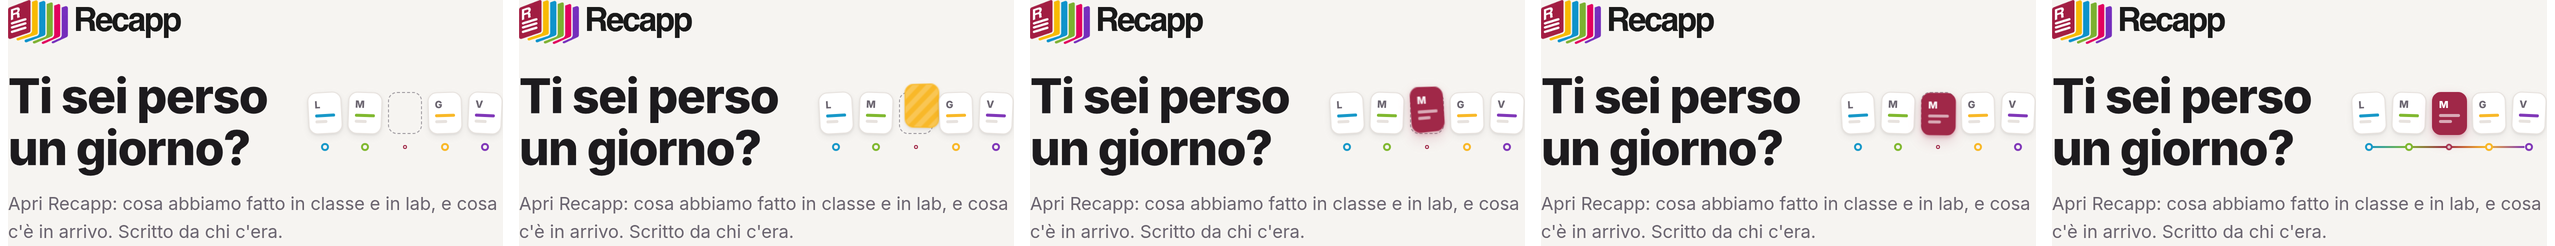
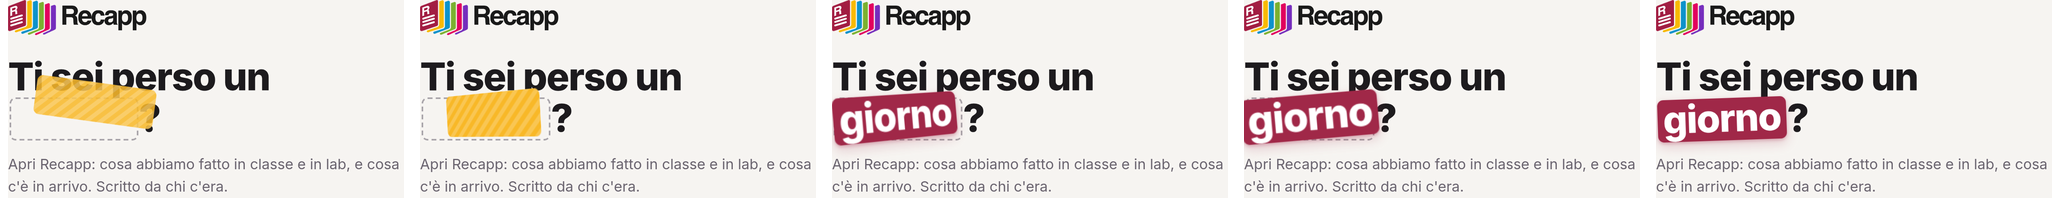
feat: il giorno perso arriva nel titolo al posto della settimana (#91)
La settimana illustrata accanto al titolo è stata tolta. Ora nel titolo
la parola «giorno» parte da uno spazio vuoto: un foglietto arriva
inclinato, si gira e si incastra. Il titolo mantiene un nome accessibile
pulito; test, nota di rilascio e screenshot sono aggiornati.

diff --git a/web/tests/landing-art.spec.ts b/web/tests/landing-art.spec.ts
@@ -10,55 +10,59 @@ async function open(page: Page, { width = 1280, dark = false, language = 'it', r
   await page.route('**/api/**', r => r.fulfill({ json: r.request().url().endsWith('/me')
     ? { kind: 'anonymous' } : { version: 'dev', status: 'idle' } }))
   await page.goto('/')
-  const week = page.getByTestId('missed-week')
-  await expect(week).toBeVisible()
-  return week
+  const day = page.getByTestId('title-day')
+  await expect(day).toBeVisible()
+  return day
 }
 
-const running = (week: Locator) => week.evaluate(el => el.getAnimations({ subtree: true }).length)
-const finished = (week: Locator) => week.evaluate(el => Promise.all(el.getAnimations({ subtree: true }).map(a => a.finished)))
+// Only the entrance counts: the language switch fades `.language-text` on its own.
+const running = (day: Locator) => day.evaluate(el =>
+  el.getAnimations({ subtree: true }).filter(a => (a as CSSAnimation).animationName?.startsWith('title-day-')).length)
+const finished = (day: Locator) => day.evaluate(el => Promise.all(el.getAnimations({ subtree: true }).map(a => a.finished)))
 
 const overlaps = (a: DOMRect | null, b: DOMRect | null) =>
   !!a && !!b && a.x < b.x + b.width && b.x < a.x + a.width && a.y < b.y + b.height && b.y < a.y + a.height
 
-test('the missing day returns within about a second and the controls work meanwhile', async ({ page }) => {
-  const week = await open(page)
-  await expect(week).toHaveAttribute('aria-hidden', 'true')
-  await expect(week.locator('.missed-week-tile:not(.missed-week-tile--back)')).toHaveCount(5)
-  const timings = await week.evaluate(el => el.getAnimations({ subtree: true }).map(a => {
+test('the missed day lands in the title within about a second and the controls work meanwhile', async ({ page }) => {
+  const day = await open(page)
+  // The word stays part of the heading for screen readers; only the motion is decorative.
+  await expect(page.getByRole('heading', { level: 1, name: 'Ti sei perso un giorno?' })).toBeVisible()
+  await expect(day.locator('.title-day-slip')).toHaveText('giorno')
+  const timings = await day.evaluate(el => el.getAnimations({ subtree: true }).filter(a => (a as CSSAnimation).animationName?.startsWith('title-day-')).map(a => {
     const t = a.effect!.getComputedTiming()
     return Number(t.delay) + Number(t.activeDuration)
   }))
-  expect(timings.length).toBe(4)
+  expect(timings.length).toBe(3)
   expect(Math.max(...timings)).toBeLessThanOrEqual(1300)
   // The class code field takes input while the entrance is still running.
   await page.getByLabel('Codice classe').fill('4BI')
-  expect(await running(week)).toBeGreaterThan(0)
-  await finished(week)
+  expect(await running(day)).toBeGreaterThan(0)
+  await finished(day)
+  expect(await day.evaluate(el => getComputedStyle(el, '::before').opacity)).toBe('0')
   await expect(page.getByRole('button', { name: 'Prova la demo' })).toBeEnabled()
 })
 
 test('typing, language and theme changes never restart the entrance', async ({ page }) => {
-  const week = await open(page)
-  await finished(week)
-  await week.evaluate(el => { (el as HTMLElement & { mark?: boolean }).mark = true })
+  const day = await open(page)
+  await finished(day)
+  await day.evaluate(el => { (el as HTMLElement & { mark?: boolean }).mark = true })
   await page.getByLabel('Codice classe').pressSequentially('4BI-K7Q2')
-  expect(await running(week)).toBe(0)
+  expect(await running(day)).toBe(0)
   await page.getByRole('button', { name: /^(Tema|Theme):/ }).click()
   await expect(page.locator('html')).toHaveClass(/dark/)
-  expect(await running(week)).toBe(0)
+  expect(await running(day)).toBe(0)
   await page.getByRole('button', { name: 'Passa a inglese' }).click()
   await expect(page.getByRole('heading', { level: 1 })).toHaveText('Missed a day?')
-  await expect(week.locator('.missed-week-tile--front b')).toHaveText('W')
-  expect(await running(week)).toBe(0)
-  expect(await week.evaluate(el => (el as HTMLElement & { mark?: boolean }).mark)).toBe(true)
+  await expect(day.locator('.title-day-slip')).toHaveText('day')
+  expect(await running(day)).toBe(0)
+  expect(await day.evaluate(el => (el as HTMLElement & { mark?: boolean }).mark)).toBe(true)
 })
 
-test('reduced motion shows the final composition and still stickers', async ({ page }) => {
-  const week = await open(page, { reduced: true })
-  expect(await running(week)).toBe(0)
-  const found = week.locator('.missed-week-found')
-  expect(await found.evaluate(el => [getComputedStyle(el).opacity, getComputedStyle(el).transform])).toEqual(['1', 'none'])
+test('reduced motion shows the final title and still stickers', async ({ page }) => {
+  const day = await open(page, { reduced: true })
+  expect(await running(day)).toBe(0)
+  expect(await day.evaluate(el => getComputedStyle(el, '::before').opacity)).toBe('0')
+  expect(await day.locator('.title-day-fly').evaluate(el => getComputedStyle(el).opacity)).toBe('1')
   const sticker = page.locator('.sticker').first()
   const before = await sticker.boundingBox()
   await sticker.hover()
@@ -105,21 +109,20 @@ test('a tap on a sticker reacts without capturing the page', async ({ browser })
 
 for (const width of [320, 390, 1024, 1280]) for (const language of ['it', 'en']) for (const dark of [false, true]) for (const zoom of ['100%', '200%']) {
   test(`layout at ${width}px, ${language}, ${dark ? 'dark' : 'light'}, text ${zoom}`, async ({ page }) => {
-    const week = await open(page, { width, language, dark })
+    const day = await open(page, { width, language, dark })
     await page.evaluate(zoom => { document.documentElement.style.fontSize = zoom }, zoom)
-    await finished(week)
-    // At 320px with 200% text the header and the logo already overflow on main; this only checks the new art.
-    const box = await week.evaluate(el => el.getBoundingClientRect().toJSON() as DOMRect)
-    const main = await page.locator('main').evaluate(el => el.getBoundingClientRect().toJSON() as DOMRect)
-    expect(box.x).toBeGreaterThanOrEqual(main.x)
-    expect(box.x + box.width).toBeLessThanOrEqual(Math.min(main.x + main.width, width))
-    for (const other of [page.getByRole('heading', { level: 1 }), page.locator('main section p').first(), page.getByLabel(/Codice classe|Class code/), page.locator('main ul')]) {
+    await finished(day)
+    // At 320px with 200% text the header and the logo already overflow on main; this only checks the title.
+    const slip = await day.locator('.title-day-slip').evaluate(el => el.getBoundingClientRect().toJSON() as DOMRect)
+    const title = await page.getByRole('heading', { level: 1 }).evaluate(el => el.getBoundingClientRect().toJSON() as DOMRect)
+    expect(slip.x).toBeGreaterThanOrEqual(title.x - 2)
+    expect(slip.x + slip.width).toBeLessThanOrEqual(Math.min(title.x + title.width, width) + 2)
+    // The question mark stays on the slip's line.
+    const mark = await day.locator('xpath=following-sibling::span[1]').evaluate(el => el.getBoundingClientRect().toJSON() as DOMRect)
+    expect(Math.abs(mark.y + mark.height / 2 - (slip.y + slip.height / 2))).toBeLessThan(slip.height / 2)
+    for (const other of [page.locator('main section p').first(), page.getByLabel(/Codice classe|Class code/), page.locator('main ul')]) {
       const rect = await other.evaluate(el => el.getBoundingClientRect().toJSON() as DOMRect)
-      expect(overlaps(box, rect)).toBe(false)
+      expect(overlaps(slip, rect)).toBe(false)
     }
-    // Beside the title from 1024px, below the subtitle otherwise.
-    const title = await page.getByRole('heading', { level: 1 }).boundingBox()
-    if (width >= 1024 && zoom === '100%') expect(box.x).toBeGreaterThan(title!.x + title!.width - 1)
-    if (width < 1024) expect(box.y).toBeGreaterThan(title!.y + title!.height)
   })
 }

diff --git a/web/src/index.css b/web/src/index.css
@@ -1315,92 +1315,74 @@ html[data-language-transition='out'] textarea::placeholder {
   .report-sent-check circle, .report-sent-check path { animation: none; stroke-dashoffset: 0; }
 }
 
-/* Landing week (issue #91): a missing day flips back into its slot and a line joins the week.
-   Every rule below is the final composition; the entrance only fills backwards, so reduced
-   motion or a finished entrance leave the same picture. The flip (~260–740ms) overlaps the
-   logo's page flip, which Landing starts at 350ms. */
-.missed-week {
-  --week-delay: 200ms;
-  display: grid;
-  grid-template-columns: repeat(5, 34px);
-  grid-template-rows: 42px 10px;
-  column-gap: 6px;
-  row-gap: 8px;
-  width: max-content;
-  user-select: none;
-  pointer-events: none;
-}
-.missed-week-tile {
+/* Landing title (issue #91): the missed day's word sits on a paper slip. Its slot starts as an
+   empty dashed outline; the slip flies in tilted, flips and lands in the sentence. Every rule is
+   the final composition and the entrance only fills backwards, so reduced motion or a finished
+   entrance show the same title. The flip (~260–740ms) overlaps the logo's page flip, which
+   Landing starts at 350ms. */
+.title-day {
   position: relative;
-  grid-row: 1;
-  display: flex;
-  flex-direction: column;
-  gap: 3px;
-  padding: 6px;
-  border: 1px solid var(--color-line);
-  border-radius: 9px;
-  background: var(--color-surface);
-  box-shadow: 0 1px 2px rgb(29 27 30 / 0.08), 0 3px 8px rgb(29 27 30 / 0.06);
-  transform: rotate(var(--tilt, 0deg));
+  display: inline-block;
+  margin-inline: 0.04em 0.02em;
 }
-.missed-week-tile b { margin-bottom: 2px; font-size: 10px; font-weight: 800; line-height: 1; color: var(--color-muted); }
-.missed-week-tile i { display: block; height: 3px; border-radius: 2px; background: var(--accent, var(--color-line)); }
-.missed-week-tile i + i { width: 60%; background: var(--color-line); }
-.missed-week-slot {
+/* The empty slot. It stays visible until the slip has landed, then fades out. */
+.title-day::before {
+  content: '';
+  position: absolute;
+  inset: 0;
+  border: 2px dashed color-mix(in srgb, var(--color-muted) 55%, transparent);
+  border-radius: 0.16em;
+  opacity: 0;
+  animation: title-day-slot 1000ms backwards;
+}
+/* Flight and fade live on a wrapper: opacity on the flipping element would flatten its 3D faces. */
+.title-day-fly {
+  display: inline-block;
+  perspective: 600px;
+  transform: rotate(-2deg);
+  animation: title-day-fly 760ms 200ms cubic-bezier(0.22, 1, 0.36, 1) backwards;
+}
+.title-day-slip {
   position: relative;
-  grid-row: 1;
-  border: 1.5px dashed color-mix(in srgb, var(--color-muted) 60%, transparent);
-  border-radius: 9px;
+  display: inline-block;
+  padding: 0.03em 0.14em 0.07em;
+  border-radius: 0.16em;
+  line-height: 1;
+  color: #fff;
+  transform-style: preserve-3d;
+  animation: title-day-flip 480ms 260ms cubic-bezier(0.45, 0, 0.25, 1) backwards;
 }
-.missed-week-found { position: absolute; inset: -1.5px; perspective: 260px; animation: week-arrive 720ms var(--week-delay) cubic-bezier(0.22, 1, 0.36, 1) backwards; }
-.missed-week-flip { position: absolute; inset: 0; transform-style: preserve-3d; animation: week-flip 480ms calc(var(--week-delay) + 60ms) cubic-bezier(0.45, 0, 0.25, 1) backwards; }
-.missed-week-flip > .missed-week-tile { position: absolute; inset: 0; backface-visibility: hidden; -webkit-backface-visibility: hidden; }
-.missed-week-tile--front { border-color: var(--color-bordeaux); background: var(--color-bordeaux); box-shadow: 0 2px 4px rgb(160 40 72 / 0.25), 0 6px 14px rgb(160 40 72 / 0.18); }
-.missed-week-tile--front b { color: #fff; }
-.missed-week-tile--front i, .missed-week-tile--front i + i { background: rgb(255 255 255 / 0.6); }
-.missed-week-tile--back {
+/* Front (bordeaux, under the word) and back (yellow paper) are separate faces, so only one shows during the flip. */
+.title-day-slip::before,
+.title-day-slip::after {
+  content: '';
+  position: absolute;
+  inset: 0;
+  border-radius: inherit;
+  backface-visibility: hidden;
+  -webkit-backface-visibility: hidden;
+}
+.title-day-slip::before {
+  background: var(--color-bordeaux);
+  box-shadow: 0 0.04em 0.08em rgb(160 40 72 / 0.25), 0 0.12em 0.3em rgb(160 40 72 / 0.2);
+}
+.title-day-slip::after {
+  background: repeating-linear-gradient(135deg, var(--color-giallo) 0 0.12em, color-mix(in srgb, var(--color-giallo) 80%, #fff) 0.12em 0.24em);
   transform: rotateY(180deg);
-  border-color: var(--color-giallo);
-  background: repeating-linear-gradient(135deg, var(--color-giallo) 0 5px, color-mix(in srgb, var(--color-giallo) 80%, #fff) 5px 10px);
 }
-.missed-week-line {
-  grid-row: 2;
-  grid-column: 1 / -1;
-  align-self: center;
-  height: 2px;
-  margin-inline: 17px;
-  border-radius: 2px;
-  background: linear-gradient(90deg, var(--color-azzurro), var(--color-verde), var(--color-bordeaux), var(--color-giallo), var(--color-viola));
-  transform-origin: left;
-  animation: week-line 340ms calc(var(--week-delay) + 560ms) cubic-bezier(0.33, 1, 0.68, 1) backwards;
-}
-.missed-week-dot {
-  z-index: 1;
-  grid-row: 2;
-  place-self: center;
-  width: 8px;
-  height: 8px;
-  border: 2px solid var(--accent);
-  border-radius: 50%;
-  background: var(--color-paper);
-}
-.missed-week-dot--found { background: var(--color-bordeaux); animation: week-dot 280ms calc(var(--week-delay) + 760ms) ease-out backwards; }
+.title-day-slip > span { position: relative; display: inline-block; backface-visibility: hidden; -webkit-backface-visibility: hidden; }
 
-@keyframes week-arrive {
-  0% { opacity: 0; transform: translate(30px, -26px) rotate(18deg) scale(0.9); }
-  25% { opacity: 1; }
-  70% { transform: translate(0, -4px) rotate(-4deg) scale(1.05); }
-  86% { transform: translate(0, 1px) rotate(1deg) scale(0.98); }
+@keyframes title-day-slot {
+  0%, 80% { opacity: 1; }
 }
-@keyframes week-flip {
+@keyframes title-day-fly {
+  0% { opacity: 0; transform: translate(0.9em, -0.7em) rotate(16deg) scale(0.85); }
+  20% { opacity: 1; }
+  68% { transform: translate(0, -0.06em) rotate(-5deg) scale(1.06); }
+  84% { transform: translate(0, 0.02em) rotate(-1deg) scale(0.98); }
+}
+@keyframes title-day-flip {
   from { transform: rotateY(180deg); }
-}
-@keyframes week-line {
-  from { transform: scaleX(0); }
-}
-@keyframes week-dot {
-  from { transform: scale(0.5); background: var(--color-paper); }
-  60% { transform: scale(1.35); }
 }
 
 /* Landing feature icons as stickers: the corner peels on hover, they squeeze when pressed
@@ -1469,7 +1451,7 @@ html[data-language-transition='out'] textarea::placeholder {
 }
 
 @media (prefers-reduced-motion: reduce) {
-  .missed-week *, .missed-week::before, .missed-week::after { animation: none !important; }
+  .title-day::before, .title-day-fly, .title-day-slip { animation: none !important; }
   .sticker, .sticker:hover, .sticker[data-pressed] {
     --peel: 0px !important;
     transform: none !important;

diff --git a/web/src/components/LandingArt.tsx b/web/src/components/LandingArt.tsx
@@ -1,55 +1,31 @@
-import { useEffect, useRef, type CSSProperties, type PointerEvent, type ReactNode } from 'react'
+import { useEffect, useRef, type PointerEvent, type ReactNode } from 'react'
 import { useTranslation } from 'react-i18next'
 
 const reducedMotion = () => window.matchMedia('(prefers-reduced-motion: reduce)').matches
 
-/** The day that goes missing, then flips back into place. */
-const MISSING = 2
-const TILT = ['-3deg', '2deg', '0deg', '-1.5deg', '2.5deg']
-const ACCENT = ['azzurro', 'verde', 'bordeaux', 'giallo', 'viola'].map(color => `var(--color-${color})`)
-
-function Day({ letter }: { letter: string }) {
-  return (
-    <>
-      <b>{letter}</b>
-      <i />
-      <i />
-    </>
-  )
-}
-
 /**
- * Decorative week on the landing page: one day is missing and returns to its slot.
- * The entrance is plain CSS, so it plays once per mount and re-renders (typing, data,
- * language, theme) never restart it. The resting styles are the final composition,
- * which is what reduced motion shows.
+ * Landing title with the missed day on a paper slip: the word's slot starts empty, then the
+ * slip flies in, flips and lands in the sentence. The entrance is plain CSS on elements that
+ * keep their identity across re-renders, so typing, data, language and theme never restart it.
+ * The resting styles are the final composition, which is what reduced motion shows.
  */
-export function MissedDayWeek({ className = '' }: { className?: string }) {
+export function MissedDayTitle({ className = '' }: { className?: string }) {
   const { t } = useTranslation()
-  const days = t('landing.week_days').split(' ')
+  const title = t('landing.title')
+  const [, before = '', day = '', after = ''] = /^(.*)<day>(.*)<\/day>(.*)$/s.exec(title) ?? []
+  // The slip is an inline-block, which would add a stray space before "?" in the accessible name.
   return (
-    <div className={`missed-week ${className}`} aria-hidden="true" data-testid="missed-week">
-      {days.map((letter, index) =>
-        index === MISSING ? (
-          <span key={index} className="missed-week-slot">
-            <span className="missed-week-found">
-              <span className="missed-week-flip">
-                <span className="missed-week-tile missed-week-tile--front"><Day letter={letter} /></span>
-                <span className="missed-week-tile missed-week-tile--back" />
-              </span>
-            </span>
+    <h1 className={className} aria-label={title.replace(/<\/?day>/g, '')}>
+      <span className="language-text">{before}</span>
+      <span className="whitespace-nowrap">
+        <span className="title-day" data-testid="title-day">
+          <span className="title-day-fly">
+            <span className="title-day-slip"><span className="language-text">{day}</span></span>
           </span>
-        ) : (
-          <span key={index} className="missed-week-tile" style={{ '--tilt': TILT[index], '--accent': ACCENT[index] } as CSSProperties}>
-            <Day letter={letter} />
-          </span>
-        ),
-      )}
-      <span className="missed-week-line" />
-      {days.map((_, index) => (
-        <span key={index} className={`missed-week-dot${index === MISSING ? ' missed-week-dot--found' : ''}`} style={{ gridColumn: index + 1, '--accent': ACCENT[index] } as CSSProperties} />
-      ))}
-    </div>
+        </span>
+        <span className="language-text">{after}</span>
+      </span>
+    </h1>
   )
 }
 

diff --git a/web/src/pages/Landing.tsx b/web/src/pages/Landing.tsx
@@ -7,7 +7,7 @@ import { Link, useNavigate } from 'react-router'
 import { api, ApiError } from '../api'
 import { LangToggle, RECAPP_MARK_MS, SchoolBadge, ThemeToggle, Wordmark } from '../components/shell'
 import { useNavIconMotion } from '../components/NavIcon'
-import { MissedDayWeek, Sticker } from '../components/LandingArt'
+import { MissedDayTitle, Sticker } from '../components/LandingArt'
 import { Button, inputClass } from '../components/ui'
 import { useMe } from '../queries'
 import { getRecent, rememberClass } from '../lib/recent'
@@ -83,12 +83,10 @@ export default function Landing() {
       <main className="mx-auto grid w-full max-w-5xl flex-1 items-start gap-8 px-5 pb-10 pt-6 md:grid-cols-[1.1fr_1fr] md:items-center md:gap-10">
         {/* `contents` on the phone so the join card can sit between the title and the feature list. */}
         <div className="contents md:block">
-          {/* One column on the phone (the week follows the subtitle); beside the title from lg. */}
-          <section className="grid grid-cols-1 lg:grid-cols-[minmax(0,1fr)_auto] lg:gap-x-6">
-            <div className="mb-5 lg:col-span-2" {...hero.triggers}><Wordmark size="lg" playing={hero.playing} /></div>
-            <h1 className="text-3xl font-extrabold leading-[1.08] tracking-tight sm:text-5xl"><span className="language-text">{t('landing.title')}</span></h1>
-            <MissedDayWeek className="order-1 mt-5 lg:order-none lg:mt-0 lg:self-center" />
-            <p className="mt-3 max-w-lg text-base text-muted sm:mt-4 sm:text-lg lg:col-span-2"><span className="language-text">{t('landing.subtitle')}</span></p>
+          <section>
+            <div className="mb-5" {...hero.triggers}><Wordmark size="lg" playing={hero.playing} /></div>
+            <MissedDayTitle className="text-3xl font-extrabold leading-[1.08] tracking-tight sm:text-5xl" />
+            <p className="mt-3 max-w-lg text-base text-muted sm:mt-4 sm:text-lg"><span className="language-text">{t('landing.subtitle')}</span></p>
           </section>
           <ul className="order-2 space-y-4 md:order-none md:mt-8">
             {features.map((f, index) => (

diff --git a/web/tests/README.md b/web/tests/README.md
@@ -120,6 +120,6 @@ Install WebKit with `npx playwright install webkit`, or set `PLAYWRIGHT_WEBKIT_E
 
 ## Animated landing (issue #91)
 
-`landing-art.spec.ts` opens the real landing page with only HTTP responses mocked. It checks that the missing-day entrance finishes within about a second while the class code field already takes input; that typing, switching theme and switching language neither restart it nor remount the week (the day letters follow the language); that reduced motion shows the final composition with no animations and still stickers; that the three feature stickers are hidden from screen readers, contain nothing focusable, peel on hover, clamp a mouse tug to 8px and spring back to their exact position, and react to a tap with `touch-action: manipulation` so scrolling stays free. Layout runs at 320px, 390px, 1024px and 1280px in Italian/English, light/dark and 100%/200% text: the week stays inside the main column and never overlaps the title, subtitle, class code field or feature list, sitting beside the title from 1024px and under the subtitle below that. At 320px with 200% text the header and logo already overflow on main; that is not changed here.
+`landing-art.spec.ts` opens the real landing page with only HTTP responses mocked. It checks that the missed day's paper slip lands in the title within about a second while the class code field already takes input, and that the empty slot is gone afterwards; that the heading keeps a clean accessible name ("Ti sei perso un giorno?"); that typing, switching theme and switching language neither restart the entrance nor remount the title (the word follows the language); that reduced motion shows the final title with no animations and still stickers; and that the three feature stickers are hidden from screen readers, contain nothing focusable, peel on hover, clamp a mouse tug to 8px and spring back to their exact position, and react to a tap with `touch-action: manipulation` so scrolling stays free. Layout runs at 320px, 390px, 1024px and 1280px in Italian/English, light/dark and 100%/200% text: the slip stays inside the heading, the question mark stays on its line, and it never overlaps the subtitle, class code field or feature list. At 320px with 200% text the header and logo already overflow on main; that is not changed here.
 
 Run `npm run test:e2e -- tests/landing-art.spec.ts`. PR screenshots and the recording come from the production build with mocked API responses.
